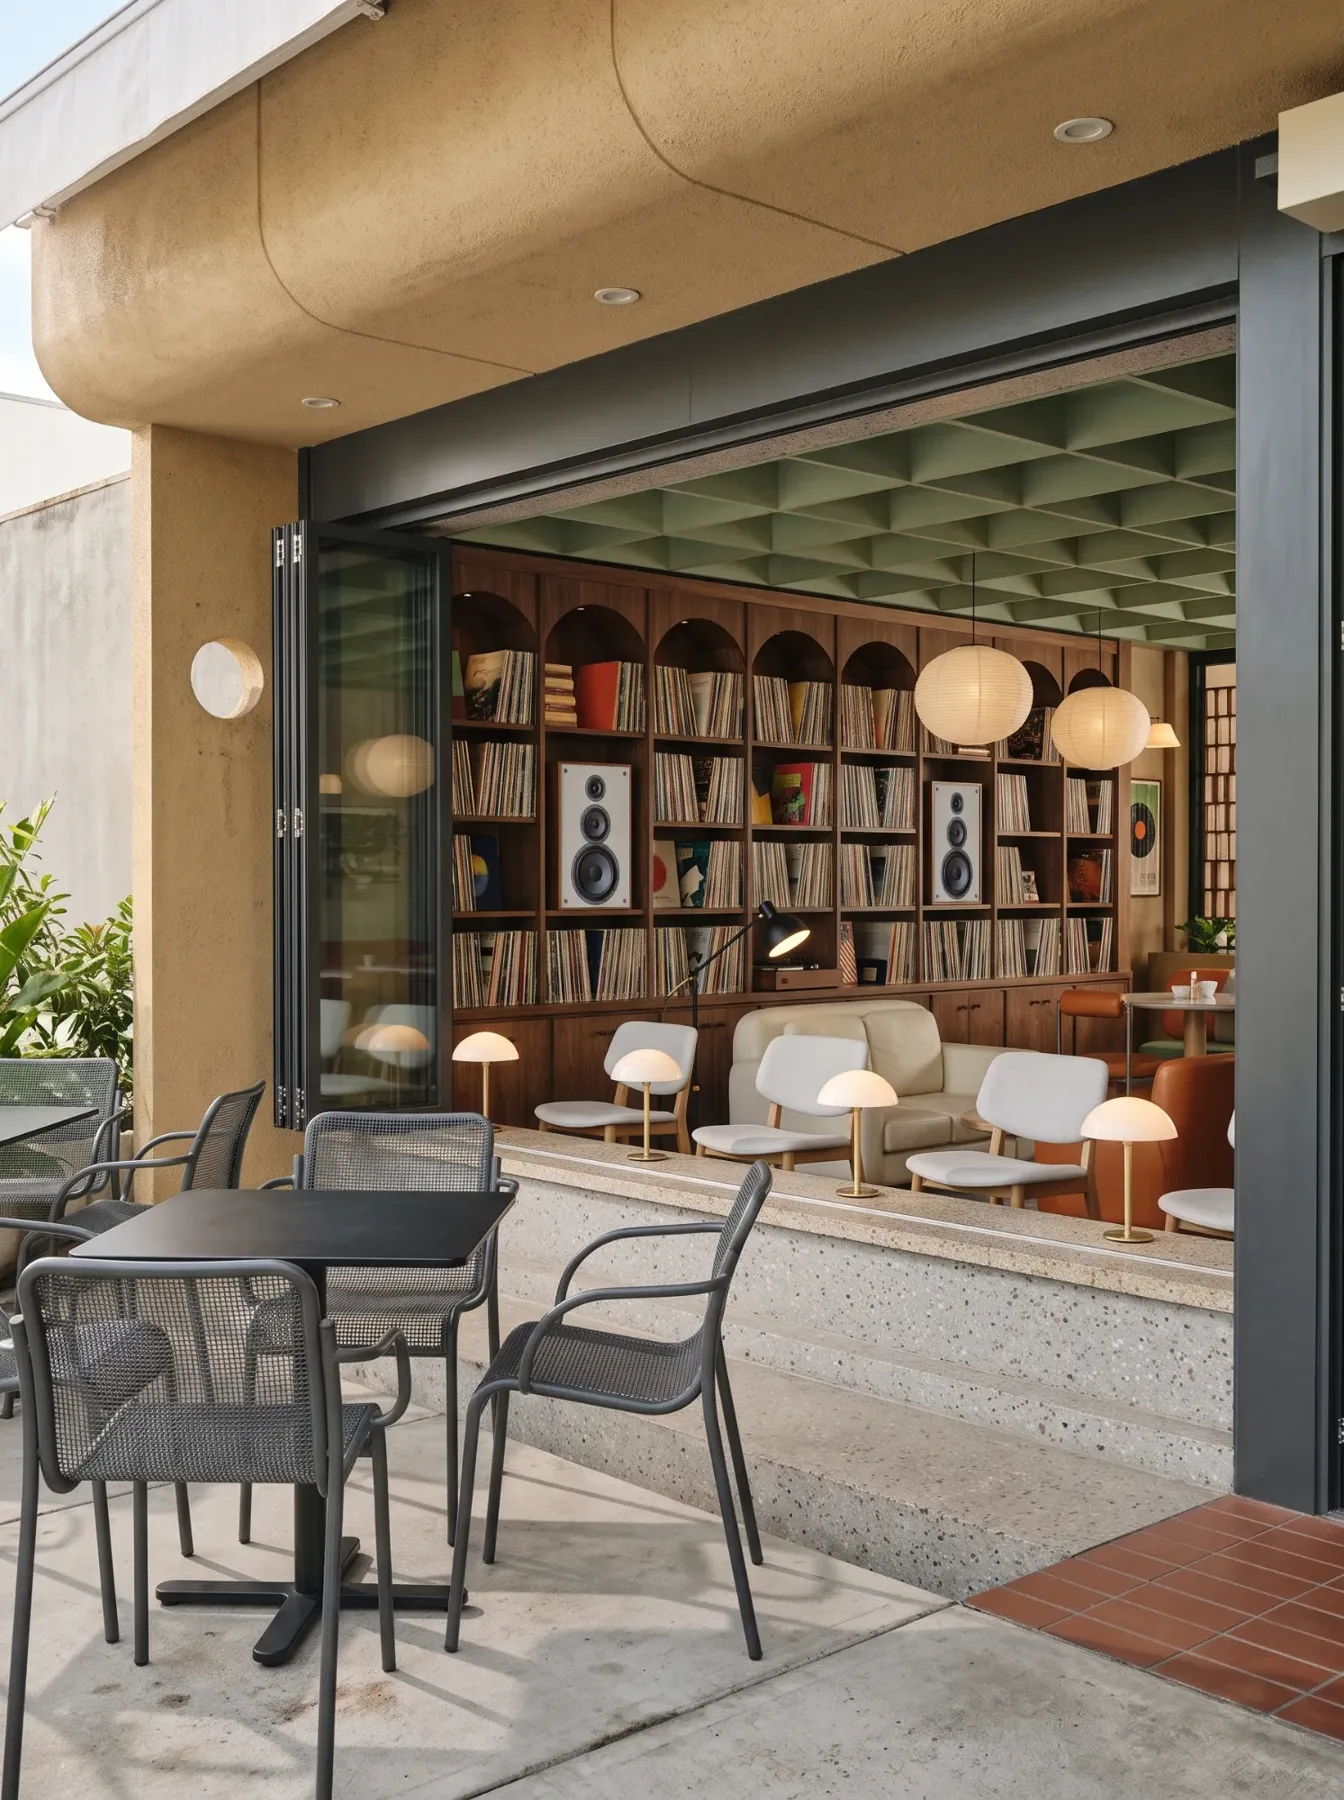
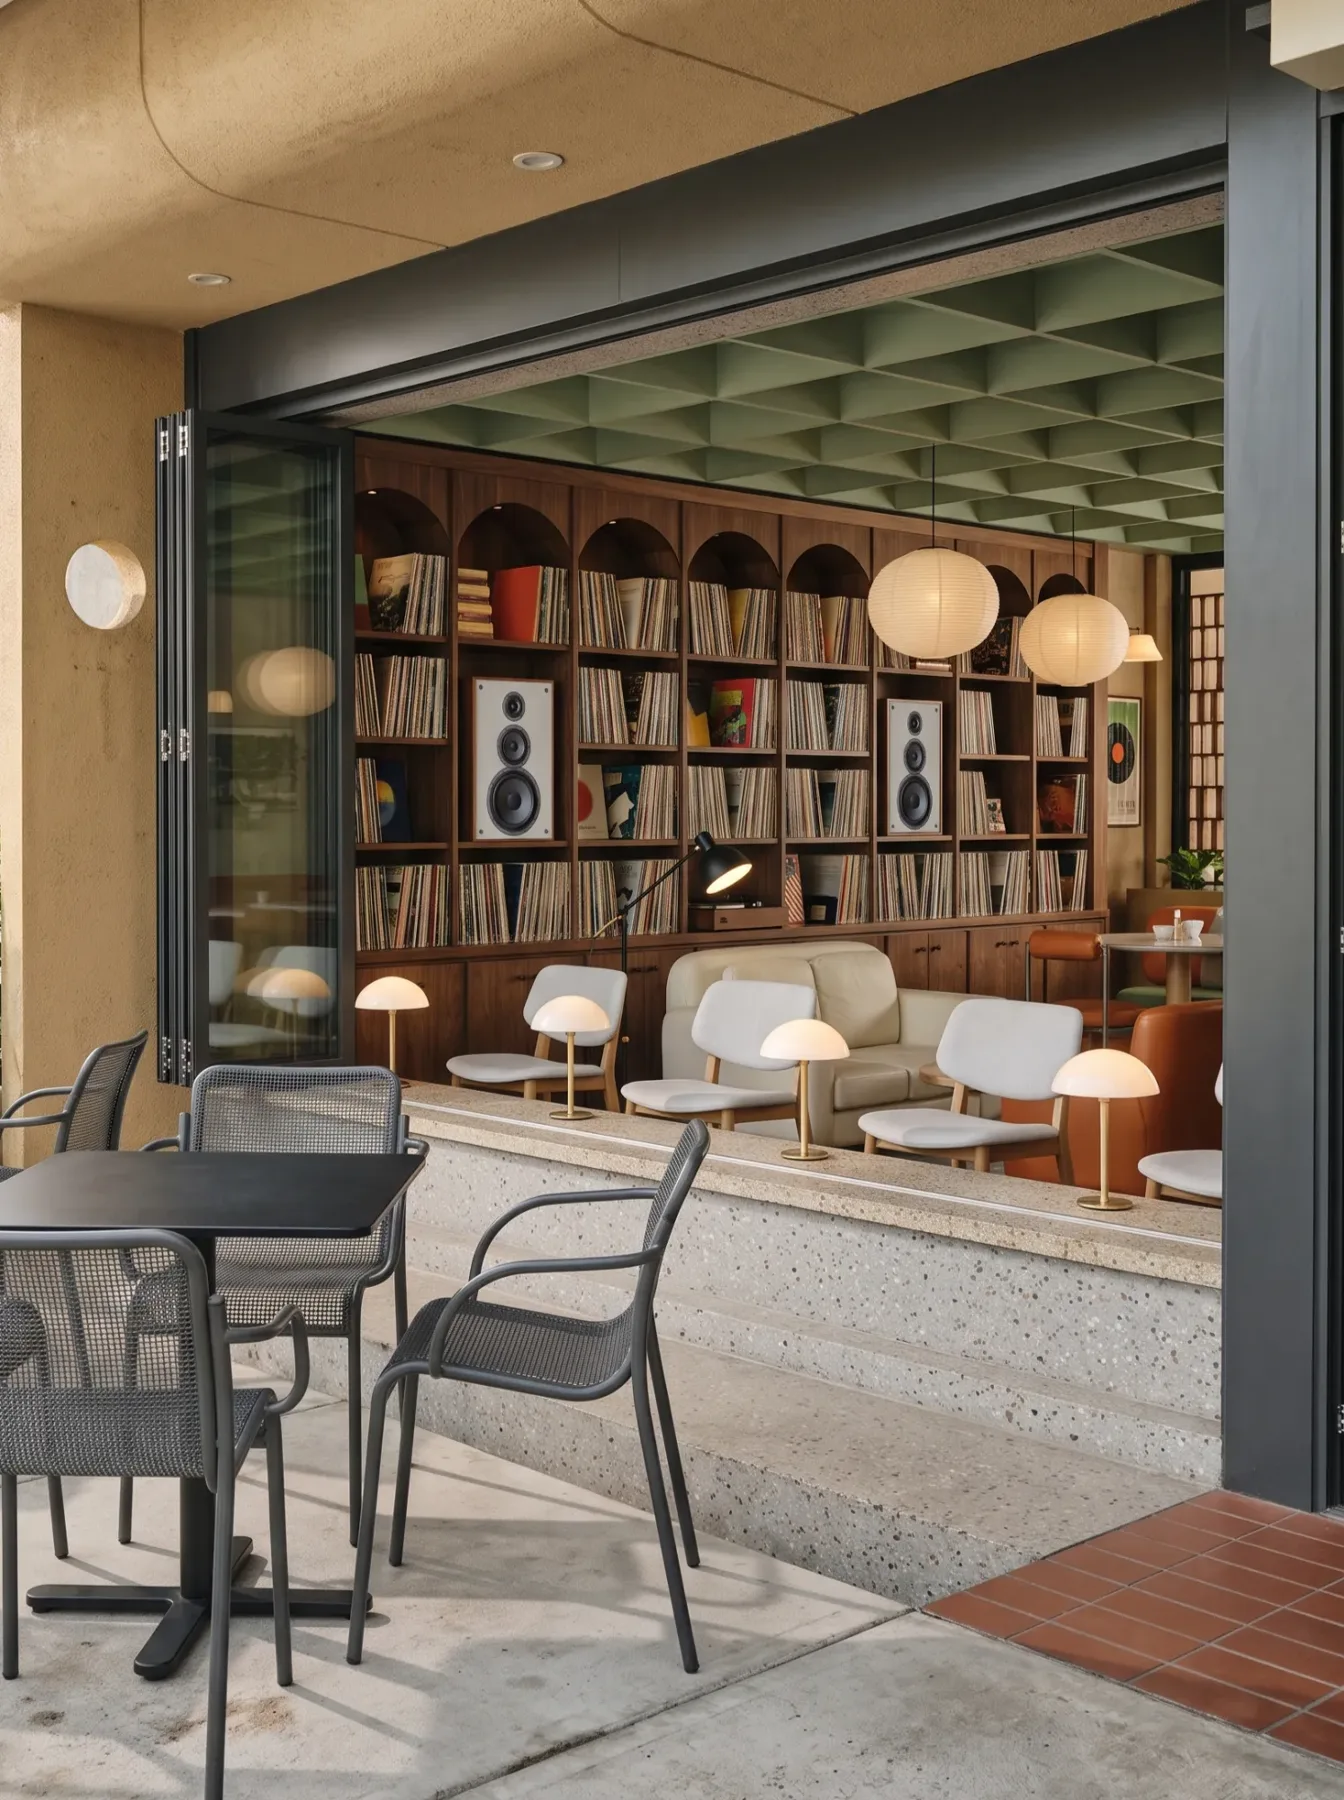
Animate gallery lightbox (zoom open/close, slide, swipe) and update Kopi Pojok photo

diff --git a/index.html b/index.html
@@ -157,10 +157,12 @@ footer .fl{display:block;width:140px;margin:22px auto 0}
 .gal>div:nth-child(n+6):nth-child(even){grid-column:1}.gal>div:nth-child(n+6):nth-child(odd){grid-column:2/-1}
 @media(min-width:761px){.gal>div:first-child img{aspect-ratio:auto;position:absolute;inset:0}.gal>div:first-child{position:relative}}
 /* foto diperbesar */
-#lb{position:fixed;inset:0;z-index:60;background:rgba(255,255,255,.96);display:none;align-items:center;justify-content:center;cursor:zoom-out}
-#lb.on{display:flex}
-#lb img{max-width:92vw;max-height:90vh;display:block}
-#lb button{position:absolute;top:50%;transform:translateY(-50%);background:none;border:0;font-family:inherit;font-size:34px;font-weight:300;line-height:1;padding:16px;cursor:pointer;color:var(--ink)}
+#lb{position:fixed;inset:0;z-index:60;display:none;cursor:zoom-out;overflow:hidden;touch-action:pan-y}
+#lb.on{display:block}
+#lb .bg{position:absolute;inset:0;background:rgba(255,255,255,.97)}
+#lb .ls{position:absolute;inset:0;display:flex;align-items:center;justify-content:center;pointer-events:none;will-change:transform}
+#lb img{max-width:92vw;max-height:90vh;display:block;user-select:none;-webkit-user-drag:none;will-change:transform}
+#lb button{z-index:2;position:absolute;top:50%;transform:translateY(-50%);background:none;border:0;font-family:inherit;font-size:34px;font-weight:300;line-height:1;padding:16px;cursor:pointer;color:var(--ink)}
 #lb .pv{left:8px}#lb .nx{right:8px}
 .v3{margin-top:12px}
 .vgo{position:absolute;inset:0;display:flex;flex-direction:column;align-items:center;justify-content:center;gap:12px}
@@ -453,7 +455,7 @@ function project(i){
     (gal?'<div class="gal g'+p.gallery.length+'">'+gal+'</div>':'')+
     (p.drawing?'<div class="drw rv"><img loading="lazy" src="'+esc(p.drawing)+'" alt="'+esc(p.title)+' drawing"></div>':'')+v3+'<div class="rv" style="margin-top:40px">'+ctaHtml()+
     '<div class="nav2"><a href="#/">All projects</a><a href="#/p/'+next.slug+'">Next: '+esc(next.title)+'</a></div></div></div></div>';
-  var g=app.querySelector('.gal');if(g)g.onclick=function(e){var d=e.target.closest('[data-k]');if(d)openLb(p.gallery,+d.getAttribute('data-k'))};
+  var g=app.querySelector('.gal');if(g)g.onclick=function(e){var d=e.target.closest('[data-k]');if(d)openLb(p.gallery,+d.getAttribute('data-k'),d.querySelector('img'))};
   if(p.model)app.querySelector('.vgo .gate').onclick=function(){destroyViewer=mountViewer(document.getElementById('v'),p.model)};
   var hero=app.querySelector('.herop img');
   if(zoomFrom&&hero)zoomTo(hero);
@@ -462,12 +464,39 @@ function project(i){
 }
 
 /* ===== Lihat foto galeri ukuran besar ===== */
-var lb,lbList,lbI;
-function openLb(list,i){
-  if(!lb){lb=document.createElement('div');lb.id='lb';lb.innerHTML='<img alt=""><button class="pv" aria-label="Previous">‹</button><button class="nx" aria-label="Next">›</button>';document.body.appendChild(lb);
-    lb.onclick=function(e){var b=e.target.closest('button');if(b){lbI=(lbI+(b.className==='nx'?1:-1)+lbList.length)%lbList.length;lb.firstChild.src=lbList[lbI]}else lb.classList.remove('on')};
-    document.addEventListener('keydown',function(e){if(!lb.classList.contains('on'))return;if(e.key==='Escape')lb.classList.remove('on');else if(e.key==='ArrowRight')lb.querySelector('.nx').click();else if(e.key==='ArrowLeft')lb.querySelector('.pv').click()})}
-  lbList=list;lbI=i;lb.firstChild.src=list[i];lb.classList.add('on');
+var lb,lbList,lbI,lbS,lbBg,lbBt,lbBusy=0,LE='cubic-bezier(.22,1,.36,1)';
+function lbSlide(src){var w=document.createElement('div');w.className='ls';w.innerHTML='<img alt="" draggable="false">';w.firstChild.src=src;lb.insertBefore(w,lbBt[0]);return w}
+function lbThumb(){return document.querySelector('.gal [data-k="'+lbI+'"] img')}
+/* animasi foto: dari kotak thumbnail ke ukuran penuh (atau sebaliknya) */
+function lbFlip(im,th,back){var F=im.getBoundingClientRect(),T=th&&th.getBoundingClientRect();
+  if(!T||!T.width||!F.width||T.bottom<0||T.top>innerHeight)return im.animate(back?[{opacity:1,transform:'none'},{opacity:0,transform:'scale(.94)'}]:[{opacity:0,transform:'scale(.94)'},{opacity:1,transform:'none'}],{duration:back?380:560,easing:LE,fill:'forwards'});
+  var s=Math.max(T.width/F.width,T.height/F.height),ix=Math.max(0,(F.width-T.width/s)/2),iy=Math.max(0,(F.height-T.height/s)/2),
+    a={transform:'translate('+(T.left+T.width/2-F.left-F.width/2)+'px,'+(T.top+T.height/2-F.top-F.height/2)+'px) scale('+s+')',clipPath:'inset('+iy+'px '+ix+'px)'},b={transform:'none',clipPath:'inset(0px 0px)'};
+  th.style.visibility='hidden';return im.animate(back?[b,a]:[a,b],{duration:back?520:640,easing:LE,fill:'forwards'})}
+function lbFade(on,ms){[lbBg].concat([].slice.call(lbBt)).forEach(function(e){e.animate([{opacity:on?0:1},{opacity:on?1:0}],{duration:ms,easing:'ease',fill:'forwards'})})}
+function lbGo(d,x){x=x||0;
+  if(lbBusy||lbList.length<2){if(x)lbS.animate([{transform:'translateX('+x+'px)'},{transform:'none'}],{duration:420,easing:LE});lbS.style.transform='';return}
+  lbBusy=1;lbI=(lbI+d+lbList.length)%lbList.length;
+  var W=innerWidth,o=lbS,n=lbSlide(lbList[lbI]),t={duration:720,easing:LE};lbS=n;
+  o.animate([{transform:'translateX('+x+'px)'},{transform:'translateX('+(-d*W)+'px)'}],t).onfinish=function(){o.remove()};
+  n.animate([{transform:'translateX('+(x+d*W)+'px)'},{transform:'none'}],t).onfinish=function(){lbBusy=0};
+  o.style.transform='translateX('+(-d*W)+'px)'}
+function lbClose(){if(lbBusy)return;lbBusy=1;var th=lbThumb(),a=lbFlip(lbS.firstChild,th,1);lbFade(0,450);
+  a.onfinish=function(){lb.classList.remove('on');lb.getAnimations({subtree:true}).forEach(function(x){x.cancel()});if(th)th.style.visibility='';lbBusy=0}}
+function openLb(list,i,th){
+  if(!lb){lb=document.createElement('div');lb.id='lb';lb.innerHTML='<div class="bg"></div><button class="pv" aria-label="Previous">‹</button><button class="nx" aria-label="Next">›</button>';document.body.appendChild(lb);
+    lbBg=lb.firstChild;lbBt=lb.querySelectorAll('button');
+    lb.onclick=function(e){if(lb.sw)return;var b=e.target.closest('button');if(b)lbGo(b.className==='nx'?1:-1);else lbClose()};
+    var sx=0,sy=0,dx=0,dr=0;
+    lb.addEventListener('touchstart',function(e){if(lbBusy)return;sx=e.touches[0].clientX;sy=e.touches[0].clientY;dx=0;dr=1},{passive:true});
+    lb.addEventListener('touchmove',function(e){if(!dr)return;dx=e.touches[0].clientX-sx;var dy=e.touches[0].clientY-sy;if(Math.abs(dy)>Math.abs(dx)&&Math.abs(dx)<10){dr=0;return}lbS.style.transform='translateX('+dx+'px)'},{passive:true});
+    lb.addEventListener('touchend',function(){if(!dr)return;dr=0;if(Math.abs(dx)<6){lbS.style.transform='';return}lb.sw=1;setTimeout(function(){lb.sw=0},350);
+      if(Math.abs(dx)>60)lbGo(dx<0?1:-1,dx);else{lbS.animate([{transform:'translateX('+dx+'px)'},{transform:'none'}],{duration:420,easing:LE});lbS.style.transform=''}});
+    document.addEventListener('keydown',function(e){if(!lb.classList.contains('on'))return;if(e.key==='Escape')lbClose();else if(e.key==='ArrowRight')lbGo(1);else if(e.key==='ArrowLeft')lbGo(-1)})}
+  if(lbBusy)return;lbBusy=1;lbList=list;lbI=i;lb.querySelectorAll('.ls').forEach(function(r){r.remove()});
+  lbS=lbSlide(list[i]);var im=lbS.firstChild;im.style.opacity=0;lb.classList.add('on');lbFade(1,450);
+  var run=function(){im.style.opacity='';lbFlip(im,th).onfinish=function(){if(th)th.style.visibility='';lbBusy=0}};
+  (im.decode?im.decode():Promise.resolve()).then(run,run);
 }
 
 /* ===== Zoom halus: foto di beranda membesar ke posisi di halaman detail ===== */
